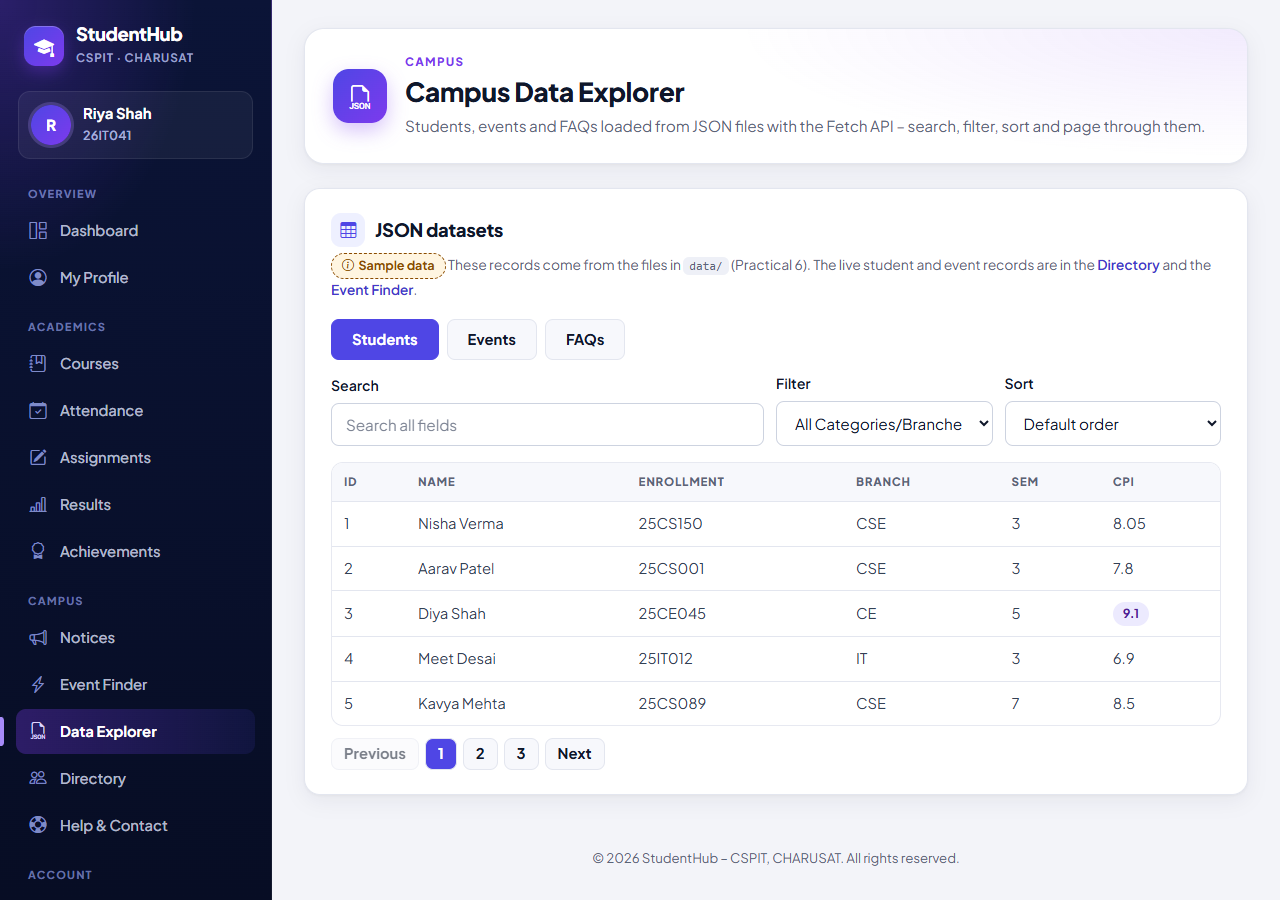
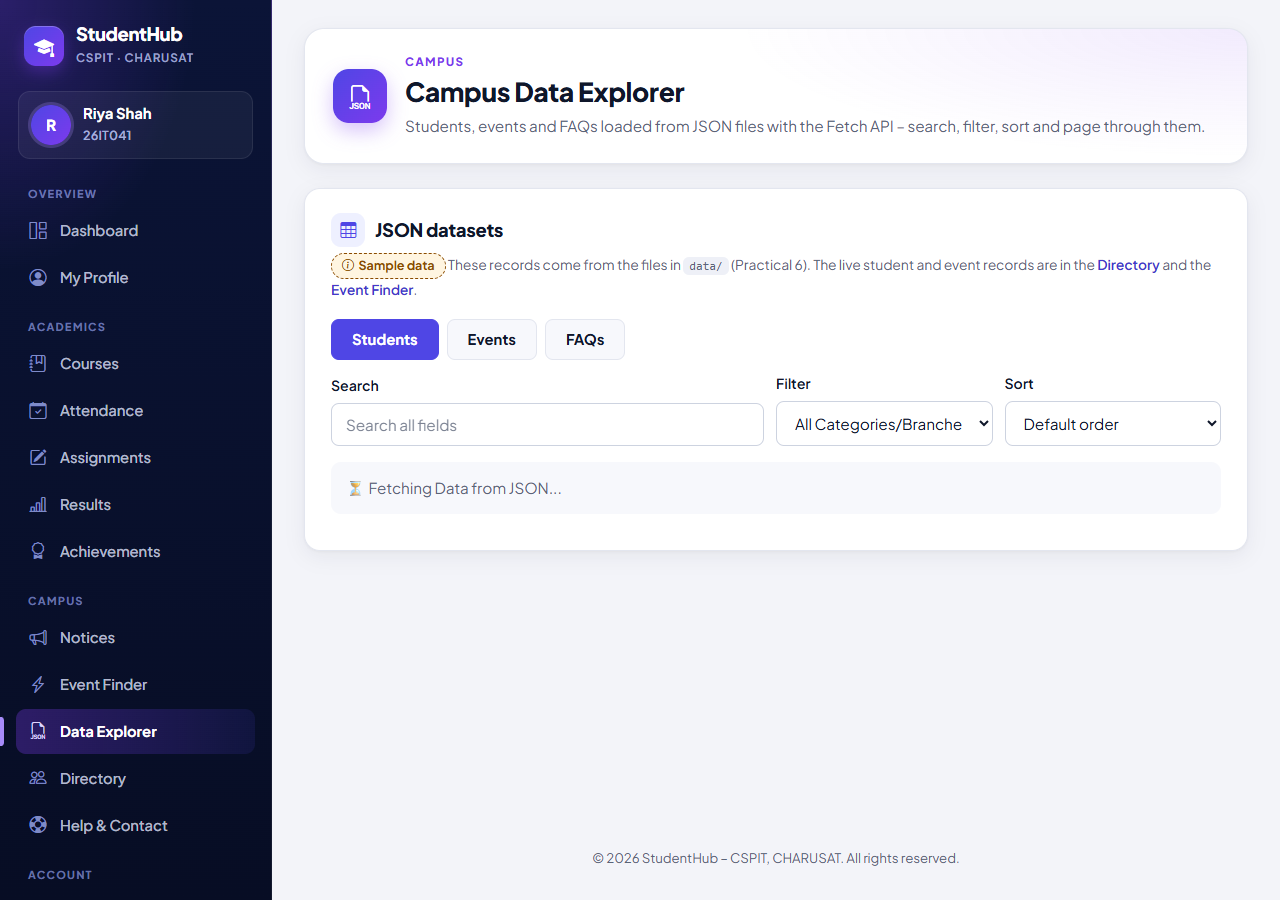
Data Explorer: use Practical 6's anonymised sample datasets; retake the loading screenshot
Found while writing the corrected reports:
- studenthub/data/*.json are now Practical 6's official sample datasets
  (invented DEMO-001 ... DEMO-015 students, sampleData flag, description)
  instead of the portal's earlier files with university-format enrollment
  numbers. data.js reads the {records} format, shows the file's description
  above the table, filters events and FAQs by category and sorts FAQs by
  question.
- The earlier 04-data-explorer-loading.png had been saved after the data had
  loaded (identical to 05). browser_forms.py now holds the JSON request until
  the screenshot is taken; evidence for Practicals 5-7 retaken.
- test_forms 41/41, browser_forms 15/15; complete run 841 passed, 0 failed.
- Practical-15 snapshot re-synced; database/README no longer claims that no
  page uses register_student_for_event(); TEST_REPORT updated.

diff --git a/Practical-15/assets/js/data.js b/Practical-15/assets/js/data.js
@@ -45,7 +45,9 @@ document.addEventListener('DOMContentLoaded', () => {
             if (!response.ok) throw new Error('Failed to fetch data');
             
             const data = await response.json();
-            currentData = data;
+            // Practical 6 format: {dataset, sampleData, description, records: [...]} (a plain array is accepted too)
+            currentData = Array.isArray(data) ? data : (data.records || []);
+            showNote(Array.isArray(data) ? '' : (data.description || ''));
             
             populateFilterOptions(type);
             applyFilters();
@@ -61,7 +63,7 @@ document.addEventListener('DOMContentLoaded', () => {
         
         currentData.forEach(item => {
             if (type === 'students') options.add(item.branch);
-            if (type === 'events') options.add(item.category);
+            if (type === 'events' || type === 'faqs') options.add(item.category);
         });
 
         options.forEach(opt => {
@@ -87,7 +89,7 @@ document.addEventListener('DOMContentLoaded', () => {
             let matchesFilter = true;
             if (filterVal !== 'all') {
                 if (currentType === 'students') matchesFilter = item.branch === filterVal;
-                if (currentType === 'events') matchesFilter = item.category === filterVal;
+                if (currentType === 'events' || currentType === 'faqs') matchesFilter = item.category === filterVal;
             }
 
             return matchesSearch && matchesFilter;
@@ -96,8 +98,8 @@ document.addEventListener('DOMContentLoaded', () => {
         // Sorting logic
         if (sortVal !== 'default') {
             filteredData.sort((a, b) => {
-                let valA = a.name || a.title || a.q;
-                let valB = b.name || b.title || b.q;
+                let valA = a.name || a.title || a.question || a.q;
+                let valB = b.name || b.title || b.question || b.q;
                 valA = String(valA).toLowerCase();
                 valB = String(valB).toLowerCase();
                 
@@ -182,6 +184,19 @@ document.addEventListener('DOMContentLoaded', () => {
                 renderTable();
             });
         });
+    }
+
+    // The dataset's own description (e.g. "SAMPLE DATA - fictional students ..."), inserted as text
+    function showNote(text) {
+        let note = document.getElementById('dataset-note');
+        if (!note) {
+            note = document.createElement('p');
+            note.id = 'dataset-note';
+            note.className = 'section-note';
+            tableContainer.before(note);
+        }
+        note.textContent = text;
+        note.hidden = !text;
     }
 
     // UI States

diff --git a/studenthub/assets/js/data.js b/studenthub/assets/js/data.js
@@ -45,7 +45,9 @@ document.addEventListener('DOMContentLoaded', () => {
             if (!response.ok) throw new Error('Failed to fetch data');
             
             const data = await response.json();
-            currentData = data;
+            // Practical 6 format: {dataset, sampleData, description, records: [...]} (a plain array is accepted too)
+            currentData = Array.isArray(data) ? data : (data.records || []);
+            showNote(Array.isArray(data) ? '' : (data.description || ''));
             
             populateFilterOptions(type);
             applyFilters();
@@ -61,7 +63,7 @@ document.addEventListener('DOMContentLoaded', () => {
         
         currentData.forEach(item => {
             if (type === 'students') options.add(item.branch);
-            if (type === 'events') options.add(item.category);
+            if (type === 'events' || type === 'faqs') options.add(item.category);
         });
 
         options.forEach(opt => {
@@ -87,7 +89,7 @@ document.addEventListener('DOMContentLoaded', () => {
             let matchesFilter = true;
             if (filterVal !== 'all') {
                 if (currentType === 'students') matchesFilter = item.branch === filterVal;
-                if (currentType === 'events') matchesFilter = item.category === filterVal;
+                if (currentType === 'events' || currentType === 'faqs') matchesFilter = item.category === filterVal;
             }
 
             return matchesSearch && matchesFilter;
@@ -96,8 +98,8 @@ document.addEventListener('DOMContentLoaded', () => {
         // Sorting logic
         if (sortVal !== 'default') {
             filteredData.sort((a, b) => {
-                let valA = a.name || a.title || a.q;
-                let valB = b.name || b.title || b.q;
+                let valA = a.name || a.title || a.question || a.q;
+                let valB = b.name || b.title || b.question || b.q;
                 valA = String(valA).toLowerCase();
                 valB = String(valB).toLowerCase();
                 
@@ -182,6 +184,19 @@ document.addEventListener('DOMContentLoaded', () => {
                 renderTable();
             });
         });
+    }
+
+    // The dataset's own description (e.g. "SAMPLE DATA - fictional students ..."), inserted as text
+    function showNote(text) {
+        let note = document.getElementById('dataset-note');
+        if (!note) {
+            note = document.createElement('p');
+            note.id = 'dataset-note';
+            note.className = 'section-note';
+            tableContainer.before(note);
+        }
+        note.textContent = text;
+        note.hidden = !text;
     }
 
     // UI States

diff --git a/tests/browser_forms.py b/tests/browser_forms.py
@@ -4,10 +4,10 @@
 P5: real-time validation and the password strength meter on the portal's registration page; P6: the Campus Data Explorer
 (JSON files + Fetch: loading state, search, filter, sorting, pagination); P7: the Help & Contact form (server validation,
 stored inquiry with a reference number) and the Inquiries tab of the Admin Console. To make the P6 loading state visible
-the test delays the JSON responses in its own network layer (the responses are the real files). Disposable database.
+the test holds the request for the JSON file in its own network layer until the screenshot is taken (the response is the real file). Disposable database.
     python tests\\browser_forms.py [screenshot folder]      (default: evidence/practical-05-07-integration)
 """
-import pathlib, re, secrets, sys, tempfile, time
+import json, pathlib, re, secrets, sys, tempfile
 
 sys.path.insert(0, str(pathlib.Path(__file__).resolve().parent))
 import test_students as P
@@ -84,23 +84,30 @@ def main():
             # ---------------- Practical 6
             sign_in(riya, "riya_shah", pw["riya_shah"])
 
-            def slow(route):
-                time.sleep(1.2)
-                route.continue_()
-            riya.route("**/data/students.json", slow)
+            # the request for students.json is held (not answered) until the loading screenshot is taken, then released
+            held = []
+            riya.route("**/data/students.json", lambda route: held.append(route))
             riya.goto(BASE + "data_explorer.php", wait_until="domcontentloaded")
             riya.wait_for_selector("#status-container .loading")
-            check("Data Explorer: loading state while students.json is fetched", "Fetching Data from JSON" in riya.inner_text("#status-container"))
+            check("Data Explorer: loading state while students.json is fetched (no table yet)",
+                  "Fetching Data from JSON" in riya.inner_text("#status-container") and riya.locator("#data-table-container table").count() == 0)
             shot(riya, "04-data-explorer-loading.png")
+            for route in held:
+                route.continue_()
             riya.wait_for_selector("#data-table-container table")
             riya.unroute("**/data/students.json")
+            check("the dataset's own 'SAMPLE DATA' description is shown above the table", "SAMPLE DATA" in riya.inner_text("#dataset-note"))
             check("students rendered from JSON: 5 rows per page with pagination", riya.locator("#data-table-container tbody tr").count() == 5
                   and riya.locator("#pagination-container .page-btn").count() == 3)
             shot(riya, "05-data-explorer-students.png")
-            riya.fill("#searchInput", "pa")
+            records = json.loads((P.APP / "data" / "students.json").read_text(encoding="utf-8"))["records"]
+            term = next(r for r in records if r["branch"] == "CSE")["name"].split()[0][:3].lower()
+            want = [r for r in records if r["branch"] == "CSE" and any(term in str(v).lower() for v in r.values())]
+            riya.fill("#searchInput", term)
             riya.select_option("#filterSelect", "CSE")
             rows = riya.locator("#data-table-container tbody tr").all_inner_texts()
-            check("search 'pa' + branch filter CSE -> only matching CSE students", rows and all("CSE" in r and "pa" in r.lower() for r in rows))
+            check(f"search '{term}' + branch filter CSE -> exactly the {len(want)} matching CSE student(s)",
+                  len(rows) == min(5, len(want)) and all("CSE" in r and term in r.lower() for r in rows))
             shot(riya, "06-data-explorer-search-filter.png")
             riya.click(".tab-btn[data-type='events']")
             riya.wait_for_selector("#data-table-container th:has-text('TITLE')")

diff --git a/tests/test_forms.py b/tests/test_forms.py
@@ -70,14 +70,17 @@ def p6_tests():
     for name in ("students", "events", "faqs"):
         st, hd, body = P.Browser(PORT).request(f"data/{name}.json")
         try:
-            rows = json.loads(body)
+            data = json.loads(body)
         except ValueError:
-            rows = None
-        ok = ok and st == 200 and isinstance(rows, list) and len(rows) >= 10
-    check("data/students.json, events.json and faqs.json are served and contain JSON arrays (15 records each)", ok)
+            data = {}
+        rows = data.get("records") if isinstance(data, dict) else None
+        ok = ok and st == 200 and data.get("sampleData") is True and "SAMPLE DATA" in data.get("description", "") and isinstance(rows, list) and len(rows) == 15
+    check("data/students.json, events.json and faqs.json are Practical 6's sample datasets (sampleData, description, 15 records each)", ok)
+    ids = [r["id"] for r in json.loads((P.APP / "data" / "students.json").read_text(encoding="utf-8"))["records"]]
+    check("the student dataset uses invented DEMO-001 … DEMO-015 ids (no real enrollment numbers)", ids == [f"DEMO-{i:03d}" for i in range(1, 16)])
     js = (P.APP / "assets" / "js" / "data.js").read_text(encoding="utf-8")
     check("data.js fetches the JSON, handles errors, escapes every value and paginates (5 per page)",
-          "fetch(`data/${type}.json`)" in js and "response.ok" in js and "catch (error)" in js and "esc(item[key])" in js and "itemsPerPage = 5" in js
+          "fetch(`data/${type}.json`)" in js and "data.records" in js and "response.ok" in js and "catch (error)" in js and "esc(item[key])" in js and "itemsPerPage = 5" in js
           and "setTimeout(resolve, 800)" not in js)
 
 

diff --git a/Practical-15/data_explorer.php b/Practical-15/data_explorer.php
@@ -14,7 +14,7 @@ $current_user = require_permission("portal.view");
     <title>Campus Data Explorer – StudentHub</title>
     <link rel="stylesheet" href="assets/css/global.css?v=11">
     <script src="assets/js/theme.js"></script>
-    <script src="assets/js/data.js?v=2" defer></script>
+    <script src="assets/js/data.js?v=3" defer></script>
 </head>
 <body>
 

diff --git a/studenthub/data_explorer.php b/studenthub/data_explorer.php
@@ -14,7 +14,7 @@ $current_user = require_permission("portal.view");
     <title>Campus Data Explorer – StudentHub</title>
     <link rel="stylesheet" href="assets/css/global.css?v=11">
     <script src="assets/js/theme.js"></script>
-    <script src="assets/js/data.js?v=2" defer></script>
+    <script src="assets/js/data.js?v=3" defer></script>
 </head>
 <body>
 

diff --git a/TEST_REPORT.md b/TEST_REPORT.md
@@ -196,8 +196,8 @@ Audit of Practicals 1–7 against the integrated portal:
 
 | Suite | Result | Output |
 |---|---|---|
-| `tests/test_forms.py` – HTTP tests of Practicals 5, 6 and 7 in the portal | **40 / 40 passed** | `tests/test_forms_output.txt` |
-| `tests/browser_forms.py` – Microsoft Edge + screenshots | **14 / 14 passed** | `tests/browser_forms_output.txt`, `evidence/practical-05-07-integration/` |
+| `tests/test_forms.py` – HTTP tests of Practicals 5, 6 and 7 in the portal | **41 / 41 passed** | `tests/test_forms_output.txt` |
+| `tests/browser_forms.py` – Microsoft Edge + screenshots | **15 / 15 passed** | `tests/browser_forms_output.txt`, `evidence/practical-05-07-integration/` |
 | `database/tests/test_005_inquiries.py` – migration 005 (fixture / real dump) / `--verify-live` | **14 / 14**, **14 / 14**, **4 / 4 passed** | `database/tests/test_005_output.txt`, `test_005_verify_live_output.txt` |
 | Live checks of migrations 001–004 after 005 | 24 / 24, 4 / 4, 5 / 5, 5 / 5 | `database/tests/*_verify_live_output.txt` |
 | Regression: `test_dashboard` 36 / 36, `test_api` 72 / 72, `test_events` 94 / 94, `test_students` 170 / 170, `test_auth` 132 / 132, `test_001` 88 / 88, `test_002` 22 / 22, `test_003` 27 / 27, `test_004` 18 / 18; Edge `browser_auth` 14 / 14 (its weak-password check now expects the browser to stop the form – the server refusal is tested over HTTP), `browser_students` 16 / 16, `browser_inactive_login` 13 / 13, `browser_events` 16 / 16, `browser_api` 16 / 16, `browser_dashboard` 15 / 15 | all passed | outputs in `tests/` and `database/tests/` |
@@ -220,10 +220,12 @@ Covered: the registration page loads the validation script with rules matching t
 | Practical 12 – events, posters, registration | 94 | 0 |
 | Practical 13 – JSON API, Event Finder | 72 | 0 |
 | Practical 14 – admin dashboard | 36 | 0 |
-| Practicals 5–7 – validation, Data Explorer, inquiries | 40 | 0 |
+| Practicals 5–7 – validation, Data Explorer, inquiries | 41 | 0 |
 | Practical 15 – snapshot (incl. 132 + 72 checks against the snapshot) | 5 | 0 |
-| Microsoft Edge: auth 14, students 16, inactive login 13, events 16, Event Finder 16, dashboard 15, Practicals 5–7 14, end-to-end 17 | 121 | 0 |
-| **Total** | **839** | **0** |
+| Microsoft Edge: auth 14, students 16, inactive login 13, events 16, Event Finder 16, dashboard 15, Practicals 5–7 15, end-to-end 17 | 122 | 0 |
+| **Total** | **841** | **0** |
+
+After the report review the Data Explorer was switched to Practical 6's own anonymised sample datasets (`DEMO-001` … `DEMO-015`, each file with a `sampleData` flag and a description, now shown above the table) instead of the portal's earlier JSON files, and the loading-state screenshot was retaken: the earlier one had been saved after the data had loaded. The test now holds the JSON request until the screenshot is taken. The complete run above is the run after these changes.
 
 The first complete run showed one failure in the Event Finder browser test: the check for "Event full" ran before the list refresh that follows the API's 409 answer had finished (a timing race in the test; it had passed in every earlier run). The test now waits for the refreshed card; the second complete run above passed completely. `run_all.py` was also corrected to read each suite's own last summary line.
 

diff --git a/Practical-15/SNAPSHOT.md b/Practical-15/SNAPSHOT.md
@@ -2,7 +2,7 @@
 
 `Practical-15/` is an exact copy of the canonical application `studenthub/` (all files tracked by Git), made with
 `python tools/sync_practical15.py` and verified with `python tools/sync_practical15.py --check` and `tests/test_snapshot.py`.
-Base commit when the copy was made: `938e74f3d337c29af5f6bebf875b4cc716b8853b` (the copied files may include changes committed together with this manifest).
+Base commit when the copy was made: `31ba32dd7529ceed9907dbdf0c65bfb83c391123` (the copied files may include changes committed together with this manifest).
 
 56 files, SHA-256:
 
@@ -17,7 +17,7 @@ e5ae52c09c0aae395a9e25379951b57f9f809f5c0d1cf295f9ad4e983fa1076e  assets/css/boo
 bcf3e995edc1a58f3de46d8fc81853e2be4482b9a8640be1141cf733634d3658  assets/css/home.css
 6e0a36ce12f9dd43207701e09b6b3f472c66604eba92e0eb4b46fddd64e639ed  assets/css/tokens.css
 607b40d98a1b7f0fe7bcf8b81bf416c94c5171250c7bd971a7159fbadddaa778  assets/js/auth.js
-bb9f2cb01100e00d0699a3f6a33a0a0aeb263bb12b79bf89d4458db3c81d0390  assets/js/data.js
+b8e1346f07a66ed223db0be20c72c65cdabcdbee9370eb7743b88ff24caa563c  assets/js/data.js
 2d73cda65e78c0d969ae75028de8b83476fc43826ecbf73b6509f02c72a9e841  assets/js/events-live.js
 8adfcb11cc0911b9fc049eaff4d6e6a25b65c2310167b8391c51abe42a078039  assets/js/nav.js
 00010ab61743879af932eb1b44443087644a5a952a10ec93e31ed42eddcdae42  assets/js/register-validation.js
@@ -30,10 +30,10 @@ df475030f93408e6b1d36de4d9e584425dcc8a779bf60b430a0958d55eb259c7  attendance.php
 97dfa6154c8878dfefacad18399237e0a6ae0b29a2624b2b404e0bcf3bd808ae  contact.php
 640abd8fe1673414adea146a2517c980d543b724a29ce1e8db94ba48a4a5e3ec  courses.php
 fe8e79277d75e8677f612469ec56037de48648464326ec7e772ee9ad59bcda77  dashboard.php
-459079fd05a429190dd80cf42a1fde2914a66f4bcd60128610cc9a8cec32f860  data/events.json
-8fba1e2ac0bf8c5e8a9fdf528cd1ca5db4df71b877801bd31c675c26204ef96b  data/faqs.json
-f5d6c9d48ccc30cbc26530a31ba255a1c288fcf73af2f3ceba2ccd8dc0d5aee4  data/students.json
-f162a546c7fab474adc59aeb0317528a1078c7122e24bba5c5ab0d5f49350ba2  data_explorer.php
+0bed31ae68c59919c063e6c3935bb6a740d274bc13110fc3d9d208d268782d1a  data/events.json
+4b16cc8e60572976769fda514fdf52207552ed7cacc1339ce9d9a087fb71614b  data/faqs.json
+d107bf734581045680da7e03ed03df6eb763ffb6d0b56206769d71cf23b7b6c7  data/students.json
+8ab32f291a0c880fc3c848ee4fd6fe8840b2a0675a502a61c44d322e0cbf4cc0  data_explorer.php
 4a2e2bd43933871e34ee66c591f59c030d18302b84abd8e3c595ad8da2abb5b5  db.php
 0d016538139267b5f728c31e4ebd80bc89c1655abdc4e81f51882a51b3934b47  directory.php
 1d6b16d1ed8dbe69845a0cf10d681f164f89fda6bee7208f8742c4f8cac679d5  events.php

diff --git a/database/README.md b/database/README.md
@@ -133,8 +133,8 @@ transaction it locks the event row (`SELECT … FOR UPDATE`), counts the registr
 inserts the registration (or reactivates a cancelled one) only if a seat is free. Concurrent requests for the same event
 therefore wait for each other. It throws `EventRegistrationException` with the reason `event_not_found`,
 `student_not_found`, `student_inactive`, `duplicate` or `event_full`. `capacity` NULL means no limit. A plain
-`INSERT INTO registrations` bypasses the capacity rule, so the portal must always use this function. No page uses it
-yet – the registration interface follows with the event module.
+`INSERT INTO registrations` bypasses the capacity rule, so the portal must always use this function. It is used by the Campus Events page
+(`notifications.php`) and the events API (`api/events.php`, Practicals 12 and 13).
 
 ## Migration 003 – event management (Practical 12)
 
